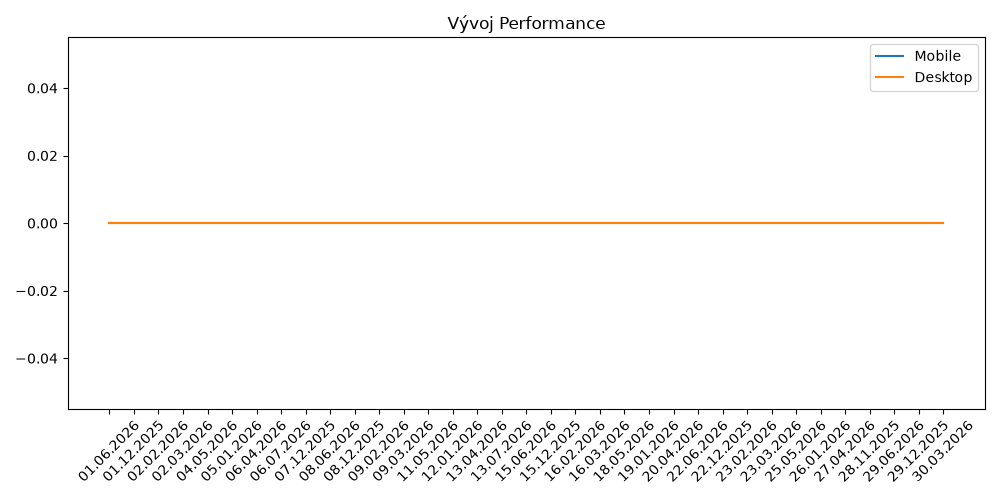
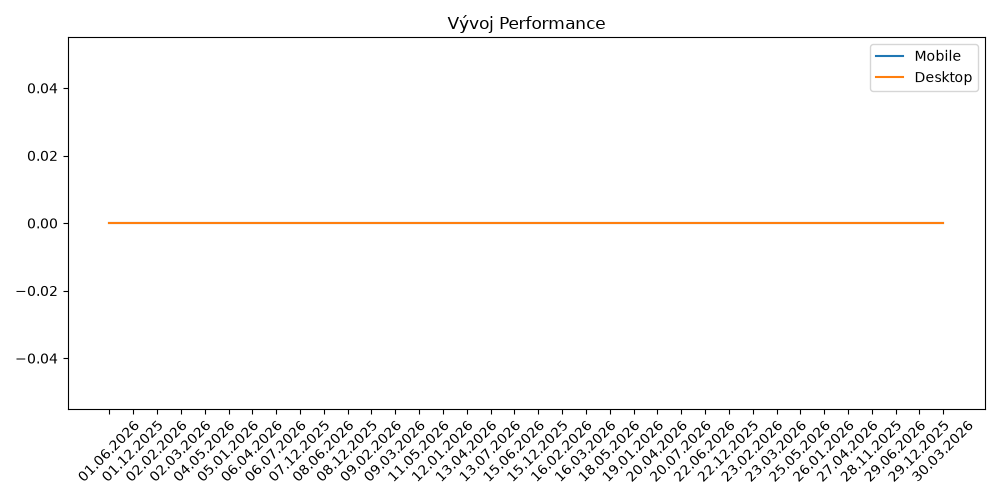
Automatický týdenní report

Changed region(s): [[0.093, 0.84, 0.961, 0.96]]

diff --git a/reports/report_20.07.2026.md b/reports/report_20.07.2026.md
@@ -1,0 +1,35 @@
+# Týdenní report – 20.07.2026
+
+## 📈 Vývoj Performance
+![Performance](../reports/performance_trend.png)
+
+## 📘 Vývoj SEO + AI/LLM skóre
+![SEO AI](../reports/seo_ai_trend.png)
+
+## 🔵 https://www.o2.cz/
+
+### 📱 Mobile Performance: **0**
+### 🖥 Desktop Performance: **0**
+### 🔍 SEO: **100**
+### 🤖 AI/LLM: **100**
+
+### ✔ Obrázky jsou v pořádku
+
+## 🔵 https://www.o2.cz/osobni/o2spolu
+
+### 📱 Mobile Performance: **0**
+### 🖥 Desktop Performance: **0**
+### 🔍 SEO: **100**
+### 🤖 AI/LLM: **100**
+
+### ✔ Obrázky jsou v pořádku
+
+## 🔵 https://www.o2.cz/osobni/oneplay
+
+### 📱 Mobile Performance: **0**
+### 🖥 Desktop Performance: **0**
+### 🔍 SEO: **100**
+### 🤖 AI/LLM: **100**
+
+### ✔ Obrázky jsou v pořádku
+